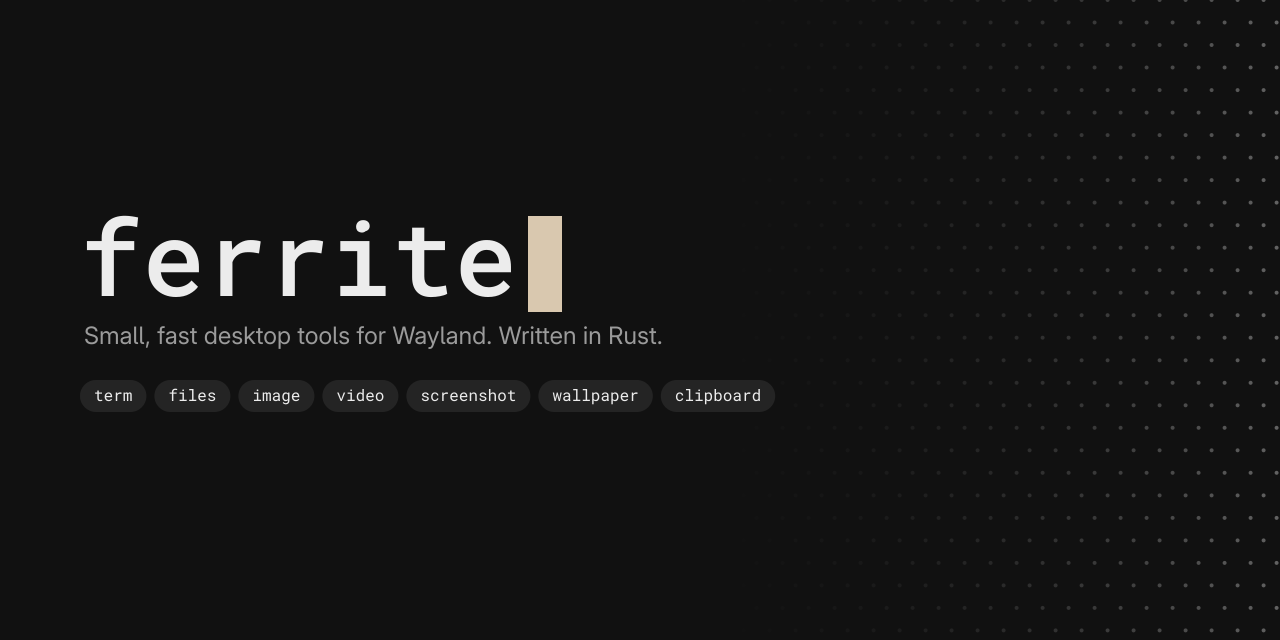
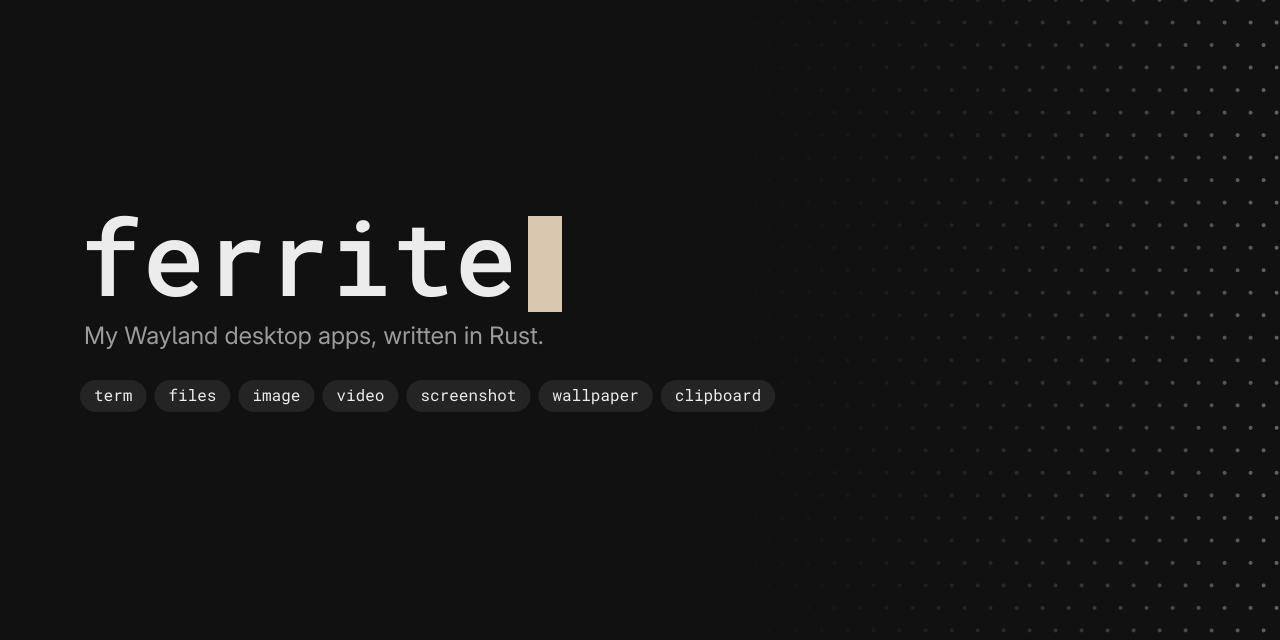
READMEs: plainer wording, say they are built with Claude
The taglines all read "a small, fast X for Wayland" and leaned on
stock phrases. Each tool now opens with what it does in plain words,
and the front page says how the tools are made.

Claude-Session: https://claude.ai/code/session_01ToQbzW1i4XpHSr6esBFcCv

Changed region(s): [[0.0625, 0.5, 0.5312, 0.5625]]

diff --git a/wallpaper/README.md b/wallpaper/README.md
@@ -1,6 +1,7 @@
 # wallpaper
 
-> A small Wayland wallpaper daemon: `wallpaper <image>` shows an image on every output.
+Run `wallpaper pic.jpg` and it is your wallpaper on every screen. Run it again with
+another image to switch.
 
 <!-- screenshot: wallpaper -->
 
@@ -11,12 +12,12 @@
 - PNG and JPEG. A GIF shows its first frame. JPEG photos are turned upright from their
   EXIF orientation.
 - The first call starts the daemon; later calls hand it a new image and exit.
-- A bare `wallpaper` shows the last image again, which is handy at login.
+- A bare `wallpaper` shows the last image again (put that in your autostart).
 - Covers the full output, also under bars that reserve space.
 - Outputs with the same size share one decode and one buffer. Outputs added later get
   the wallpaper too; integer output scales are drawn at full resolution.
 - Idle memory is about 3 MB: the decoded image is freed after drawing.
-- No system libraries beyond libc. It speaks the Wayland wire protocol itself; image
+- Needs only libc. It talks to the compositor over the Wayland socket directly; image
   decoding comes from the workspace's [`pix`](../pix) library.
 
 ## Install

diff --git a/README.md b/README.md
@@ -1,6 +1,6 @@
 <div align="center">
 
-<img src="assets/banner.svg" alt="ferrite: small, fast desktop tools for Wayland, written in Rust" width="100%">
+<img src="assets/banner.svg" alt="ferrite: my Wayland desktop apps, written in Rust" width="100%">
 
 <br>
 
@@ -9,7 +9,10 @@
 [![Rust](https://img.shields.io/badge/written%20in-Rust-242424?style=flat-square&labelColor=111111)](#build-from-source)
 [![License](https://img.shields.io/badge/license-MIT%20%2F%20Apache--2.0-242424?style=flat-square&labelColor=111111)](#license)
 
-Few dependencies, monochrome look, built to stay out of your way.
+A terminal, file manager, image viewer, video player, screenshot tool, wallpaper setter and
+clipboard keeper, made for my own Hyprland setup. I built them with Claude: I decide what
+each app does and how it looks, Claude writes most of the code, and I use them every day.
+Three of them need nothing but libc.
 
 <img src="assets/files.png" alt="files, the file manager" width="49%">
 <img src="assets/image.png" alt="image, the image viewer" width="49%">

diff --git a/clipboard/README.md b/clipboard/README.md
@@ -1,6 +1,6 @@
 # clipboard
 
-> A Wayland clipboard keeper: your last copy stays pasteable after the app you copied from closes.
+On Wayland, closing an app throws away whatever you copied from it. This keeps it.
 
 <!-- screenshot: clipboard -->
 
@@ -17,9 +17,10 @@
 - Skips copies that password managers mark as secret (`x-kde-passwordManagerHint`).
 - Slow or stuck apps never block it: all transfers are non-blocking, and many pastes
   can be served at once.
-- Asleep when idle: no timers, no wakeups. About 2 MB of memory plus the size of the
+- Uses no CPU while nothing happens (no timers). About 2 MB of memory plus the size of the
   kept copy.
-- No crates, no system libraries beyond libc. It speaks the Wayland wire protocol itself.
+- Needs only libc. It talks to the compositor over the Wayland socket directly, without
+  libwayland or any crates.
 
 ## Install
 

diff --git a/screenshot/README.md b/screenshot/README.md
@@ -1,6 +1,7 @@
 # screenshot
 
-> A fast Wayland screenshot tool: capture the whole screen, or freeze it and pick a region or window.
+Takes a screenshot in about 20 ms. Or freezes the screen so you can pick a region or a
+window.
 
 <!-- screenshot: screenshot -->
 
@@ -16,7 +17,8 @@
 - Shots from freeze mode are saved to a file and copied to the clipboard as `image/png`.
 - Write to a file or to stdout (`-`) for piping.
 - Own PNG encoder: filters and compresses stripes of the image on all CPU cores.
-- No crates, no system libraries beyond libc. It speaks the Wayland wire protocol itself.
+- Needs only libc. It talks to the compositor over the Wayland socket directly, without
+  libwayland or any crates.
 
 ## Install
 

diff --git a/frame/README.md b/frame/README.md
@@ -1,6 +1,6 @@
 # frame
 
-> The Wayland base that ferrite's windowed tools share: a window, input, fonts and a flat UI toolkit, with no crate dependencies.
+The Wayland base that ferrite's windowed tools share: a window, input, fonts and a flat UI toolkit, with no crate dependencies.
 
 ## What's inside
 

diff --git a/files/README.md b/files/README.md
@@ -1,6 +1,6 @@
 # files
 
-> A Wayland file manager with a Nemo-like layout: places on the left, a list or grid of files on the right.
+A file manager laid out like Nemo: places on the left, a list or grid of files on the right.
 
 ![files](../assets/files.png)
 

diff --git a/term/README.md b/term/README.md
@@ -1,6 +1,7 @@
 # term
 
-> A small, fast terminal emulator for Wayland, with tabs, a split panel and its own font rendering.
+A terminal for Wayland with tabs and a split panel. It draws its own text with FreeType,
+on the CPU.
 
 <!-- screenshot: term -->
 

diff --git a/video/README.md b/video/README.md
@@ -1,6 +1,6 @@
 # video
 
-> A small video player for Wayland, built on libmpv.
+A video player on top of libmpv. Decodes on the GPU when it can.
 
 <!-- screenshot: video -->
 
